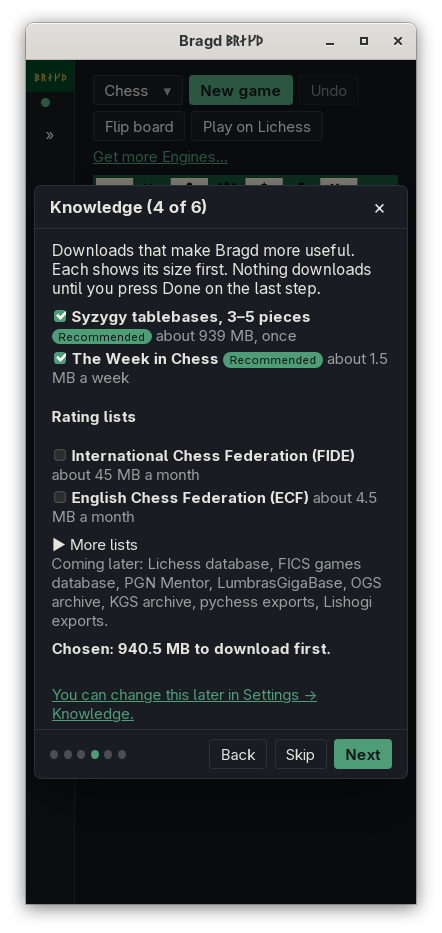
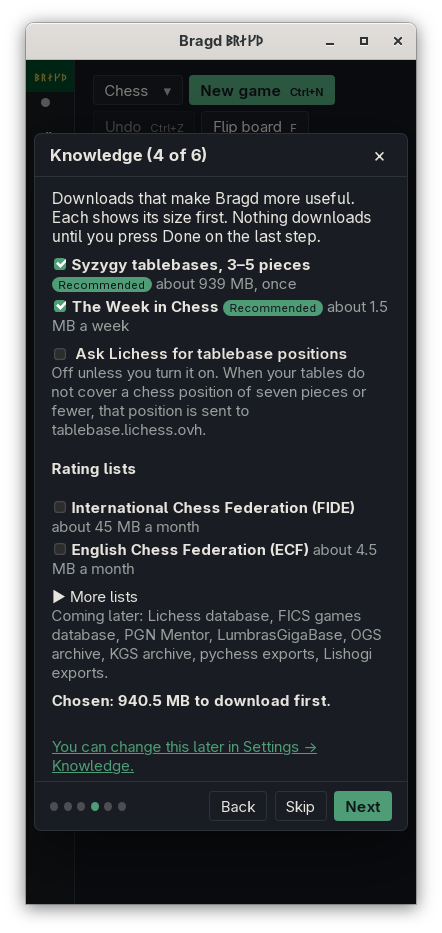
Chess positions go to the Lichess tablebase only once you turn it on.
Closes #306

diff --git a/gui/src/Notices.svelte b/gui/src/Notices.svelte
@@ -6,8 +6,8 @@
   import { t } from "./i18n.svelte.js";
   import { guide } from "./guide.svelte.js";
 
-  /** @type {{ snap: any, go: (page: any) => void }} */
-  let { snap, go } = $props();
+  /** @type {{ snap: any, go: (page: any) => void, save: (name: string, value: any) => Promise<any> }} */
+  let { snap, go, save } = $props();
   let copied = $state("");
 
   const areaName = (/** @type {string} */ id) => snap.areas.find((/** @type {any} */ a) => a[0] === id)?.[1] ?? id;
@@ -18,6 +18,11 @@
     // Closing a hint brings the next one due.
     const next = await api.noticeDismiss(id);
     if (next && !guide.notices.some((n) => n.id === next.id)) guide.notices = [...guide.notices, next];
+  }
+  /** An offer's switch turned on: the offer is done with. */
+  async function turnOn(/** @type {any} */ n) {
+    await save(n.turn_on, true);
+    guide.notices = guide.notices.filter((x) => x.id !== n.id);
   }
   function settings(/** @type {any} */ n) {
     go({ kind: "settings", area: n.settings });
@@ -59,12 +64,13 @@
     {/if}
     {#if shown}
       {@const n = shown}
-      <div class="notice panel" class:hintish={n.id.startsWith("hint:")}>
+      <div class="notice panel" class:hintish={n.id.startsWith("hint:") || n.turn_on}>
         <p>{n.text}</p>
         {#if n.copy}
           <p class="copy"><code>{n.copy}</code> <button onclick={() => copy(n)}>{copied === n.id ? t("common.copied") : t("common.copy")}</button></p>
         {/if}
         <div class="actions">
+          {#if n.turn_on}<button class="primary" onclick={() => turnOn(n)}>{t("notice.turn_on")}</button>{/if}
           {#if n.settings}<button class="link" onclick={() => settings(n)}>{t("notice.open_settings", { area: areaName(n.settings) })}</button>{/if}
           <button onclick={() => dismiss(n.id)} aria-label={t("common.close")} title={t("common.close")}>×</button>
         </div>

diff --git a/gui/src/App.svelte b/gui/src/App.svelte
@@ -67,8 +67,22 @@
     api.guideDue().then((d) => ([guide.wizard, guide.first, guide.cards] = [d.wizard, d.wizard, d.cards]));
     api.noticeList(true).then((n) => {
       guide.notices = n;
-      api.updateCheck().then((all) => (guide.notices = [...all, ...guide.notices.filter((x) => /^(hint|local):/.test(x.id))]));
+      started = true;
+      api.updateCheck().then((all) => (guide.notices = [...all, ...guide.notices.filter((x) => x.turn_on || /^(hint|local):/.test(x.id))]));
       askTip();
+    });
+  });
+
+  // Entering a Family's place may bring its offer (Rust decides: chess offers the Lichess
+  // tablebase while it is off). Not in the run that showed the wizard, which offered it already.
+  let started = $state(false);
+  let entered = "";
+  $effect(() => {
+    const f = page.kind === "item" ? page.family : "";
+    if (!f || f === entered || !started || guide.first || guide.wizard || guide.cards.length) return;
+    entered = f;
+    api.familyHint(f).then((n) => {
+      if (n && !guide.notices.some((/** @type {any} */ x) => x.id === n.id)) guide.notices = [...guide.notices, n];
     });
   });
 
@@ -195,7 +209,7 @@
   {#if guide.wizard || guide.cards.length}
     <Wizard {snap} {save} only={(id) => api.familiesOnly(id).then(apply)} {go} />
   {/if}
-  <Notices {snap} {go} />
+  <Notices {snap} {go} {save} />
 {/if}
 
 <style>

diff --git a/gui/src/api.js b/gui/src/api.js
@@ -54,6 +54,8 @@ export const whatsNew = () => invoke("whats_new");
 export const noticeList = (/** @type {boolean} */ start) => invoke("notice_list", { start });
 /** Closes a notice; for a hint, the next hint due comes back. @returns {Promise<any>} */
 export const noticeDismiss = (/** @type {string} */ id) => invoke("notice_dismiss", { id });
+/** The offer shown on entering a Family's place, if one is due. @returns {Promise<any>} */
+export const familyHint = (/** @type {string} */ family) => invoke("family_hint", { family });
 /** @returns {Promise<any[]>} */
 export const updateCheck = () => invoke("update_check");
 export const openConfig = () => invoke("open_config");

diff --git a/gui/src/Wizard.svelte b/gui/src/Wizard.svelte
@@ -197,6 +197,10 @@
         <ul class="offers">
           {#each data.offers.filter((/** @type {any} */ o) => !o.list) as o (o.id)}{@render offer(o)}{/each}
         </ul>
+        {#if opt("tablebases_online")?.listed}
+          <label class="check"><input type="checkbox" checked={opt("tablebases_online").value} onchange={(e) => save("tablebases_online", e.currentTarget.checked)} /> {opt("tablebases_online").label}</label>
+          <p class="dim">{opt("tablebases_online").hint}</p>
+        {/if}
         {#if data.offers.some((/** @type {any} */ o) => o.list)}
           <h4>{t("clubs.lists")}</h4>
           <ul class="offers">

diff --git a/gui/src/Tablebases.svelte b/gui/src/Tablebases.svelte
@@ -38,7 +38,7 @@
     }
     await load();
   }
-  const online = $derived(snap.settings.find((/** @type {any} */ o) => o.name === "tablebases_online")?.value ?? true);
+  const online = $derived(snap.settings.find((/** @type {any} */ o) => o.name === "tablebases_online")?.value ?? false);
 </script>
 
 <section class="tablebases">

diff --git a/crates/bragd-core/src/notices.rs b/crates/bragd-core/src/notices.rs
@@ -17,6 +17,8 @@ pub struct Notice {
     pub settings: Option<&'static str>,
     /// A line to copy and run (an upgrade command): shown with a Copy button.
     pub copy: Option<String>,
+    /// The switch it offers to turn on (`settings::Opt::name`): shown with a Turn on button.
+    pub turn_on: Option<&'static str>,
 }
 
 impl Notice {
@@ -26,6 +28,7 @@ impl Notice {
             text,
             settings,
             copy: None,
+            turn_on: None,
         }
     }
 }
@@ -104,6 +107,19 @@ pub fn hint_due(st: &mut AppState, id: &str) -> bool {
     true
 }
 
+/// The hint shown on entering chess that offers the Lichess tablebase lookups: only while chess
+/// is shown and the lookups are off, a few times, and never again once dismissed.
+pub fn tablebase_hint(cfg: &Config, st: &mut AppState) -> Option<Notice> {
+    const ID: &str = "tablebase_online";
+    if !cfg.family_shown("chess") || cfg.tablebases.online || st.notices_dismissed.iter().any(|d| d == ID) || !hint_due(st, ID) {
+        return None;
+    }
+    Some(Notice {
+        turn_on: Some("tablebases_online"),
+        ..Notice::new(ID, t!("hint.tablebase_online"), Some("online"))
+    })
+}
+
 /// The next hint of `hints` (in order, after `after` when given) still to be shown, counted as
 /// shown once more: one hint at a time, the next only once the one before is closed.
 pub fn next_hint<'a>(st: &mut AppState, hints: &[&'a str], after: Option<&str>) -> Option<&'a str> {
@@ -147,6 +163,27 @@ mod tests {
         let shown = (0..5).filter(|_| hint_due(&mut st, "sidebar")).count();
         assert_eq!(shown, TIMES as usize);
         assert!(hint_due(&mut st, "other"));
+    }
+
+    #[test]
+    fn notices_offer_the_tablebase_lookups_to_chess_users_a_few_times() {
+        let mut st = AppState::default();
+        let cfg = Config::default();
+        let shown = (0..5).filter(|_| tablebase_hint(&cfg, &mut st).is_some()).count();
+        assert_eq!(shown, TIMES as usize);
+
+        let mut st = AppState::default();
+        let n = tablebase_hint(&cfg, &mut st).unwrap();
+        assert_eq!((n.turn_on, n.settings), (Some("tablebases_online"), Some("online")));
+        dismiss(&mut st, &n.id);
+        assert!(tablebase_hint(&cfg, &mut st).is_none(), "dismissed: never again");
+
+        let mut st = AppState::default();
+        let on = Config::parse("[tablebases]\nonline = true\n").unwrap();
+        assert!(tablebase_hint(&on, &mut st).is_none(), "already on");
+        let go = Config::parse("[families.family]\nchess = false\n").unwrap();
+        assert!(tablebase_hint(&go, &mut st).is_none(), "no chess");
+        assert!(st.hints_shown.is_empty(), "not counted when not shown");
     }
 
     #[test]

diff --git a/crates/bragd-core/src/config.rs b/crates/bragd-core/src/config.rs
@@ -115,22 +115,14 @@ impl Default for EnginesConfig {
     }
 }
 
-#[derive(Clone, Debug, PartialEq, Serialize, Deserialize)]
+#[derive(Clone, Debug, Default, PartialEq, Serialize, Deserialize)]
 #[serde(default)]
 pub struct TablebasesConfig {
     /// The Syzygy folder; empty: the one in Bragd's data folder.
     pub path: String,
-    /// Ask the Lichess tablebase API for a position the local tables do not cover.
+    /// Ask the Lichess tablebase API for a position the local tables do not cover. Off until the
+    /// user turns it on: nothing leaves the machine unasked (`notices::tablebase_hint` offers it).
     pub online: bool,
-}
-
-impl Default for TablebasesConfig {
-    fn default() -> Self {
-        TablebasesConfig {
-            path: String::new(),
-            online: true,
-        }
-    }
 }
 
 #[derive(Clone, Debug, PartialEq, Serialize, Deserialize)]
@@ -606,13 +598,14 @@ mod tests {
     }
 
     #[test]
-    fn config_defaults_have_everything_on() {
+    fn config_defaults_have_everything_on_but_what_goes_online_unasked() {
         let c = Config::parse("").unwrap();
         assert_eq!(c, Config::default());
         assert_eq!(c.look.theme, "racing-green-dark");
         assert_eq!(c.look.board_theme, "racing");
         assert_eq!(c.knowledge.source_priority, ["twic", "lichess-db"]);
-        assert!(c.updates.check && c.tablebases.online && !c.helper.start_with_session);
+        assert!(c.updates.check && !c.tablebases.online && !c.helper.start_with_session);
+        assert!(Config::parse("[tablebases]\nonline = true\n").unwrap().tablebases.online, "a stored choice stays");
         for v in &bragd_games::VARIANTS {
             assert!(c.variant_on(v.key), "{}", v.key);
         }

diff --git a/gui/src-tauri/src/help.rs b/gui/src-tauri/src/help.rs
@@ -45,7 +45,21 @@ fn hints(cfg: &Config) -> Vec<&'static str> {
 fn hint(cfg: &Config, st: &mut AppState, after: Option<&str>) -> Option<Notice> {
     let h = notices::next_hint(st, &hints(cfg), after)?;
     let _ = st.save();
-    Some(Notice { id: format!("hint:{h}"), text: t!(&format!("hint.{h}")), settings: None, copy: None })
+    Some(Notice { id: format!("hint:{h}"), text: t!(&format!("hint.{h}")), settings: None, copy: None, turn_on: None })
+}
+
+/// Entering a Family's place: chess offers the Lichess tablebase lookups while they are off, at
+/// most once a run and a few runs in all (`notices::tablebase_hint`).
+#[tauri::command]
+pub fn family_hint(family: String, ctx: tauri::State<'_, Ctx>) -> Option<Notice> {
+    static ASKED: std::sync::atomic::AtomicBool = std::sync::atomic::AtomicBool::new(false);
+    if family != "chess" || ASKED.swap(true, std::sync::atomic::Ordering::Relaxed) {
+        return None;
+    }
+    let mut st = AppState::load();
+    let n = notices::tablebase_hint(&ctx.cfg(), &mut st)?;
+    let _ = st.save();
+    Some(n)
 }
 
 /// A notice was closed: a notice is not shown again; a hint only this time, and the next hint

diff --git a/docs/screenshots/cap.py b/docs/screenshots/cap.py
@@ -124,7 +124,7 @@ MODS = {"Alt": 1, "Ctrl": 2, "Meta": 4, "Shift": 8}
 
 # What a demo home has seen: the install wizard, every tour card, and the hints; and a Tip shown
 # in 2100, so no Tip covers a picture.
-SEEN = {"guide_seen": True, "seen_version": "999.0.0", "hints_shown": {h: 99 for h in ("sidebar", "features", "wizard")},
+SEEN = {"guide_seen": True, "seen_version": "999.0.0", "hints_shown": {h: 99 for h in ("sidebar", "features", "wizard", "tablebase_online")},
         "tip_shown": 4102444800}
 
 

diff --git a/gui/src-tauri/src/main.rs b/gui/src-tauri/src/main.rs
@@ -458,6 +458,7 @@ fn main() {
             help::key_used,
             help::notice_list,
             help::notice_dismiss,
+            help::family_hint,
             help::update_check,
             help::open_config,
             help::suggest_translation,

diff --git a/docs/getting-started/first-start.md b/docs/getting-started/first-start.md
@@ -15,13 +15,13 @@ On the first start Bragd opens the install wizard: six short steps in a frame ov
 | 1 Welcome | Language (each by its own name), Theme and Board theme, with a preview | Look |
 | 2 Your games | *Which games do you play?* One click on *Only Chess* (or any other Family) keeps that one and turns the rest off. *Several…* shows a switch for every Family and Variant | Game families |
 | 3 Engines | Nothing: it shows the Engines found on this machine for each Family that is on, or that Bragd's own Bot plays it | Engines |
-| 4 Knowledge | Downloads: TWIC every week and Syzygy 3–5 pieces (about 1 GB) are ticked; the others are listed with their sizes. Of the rating lists, FIDE's and your own federation's are listed; the other federations' wait under **More lists**. One line names the Sources coming later | Knowledge |
+| 4 Knowledge | Downloads: TWIC every week and Syzygy 3–5 pieces (about 1 GB) are ticked; the others are listed with their sizes. Of the rating lists, FIDE's and your own federation's are listed; the other federations' wait under **More lists**. One line names the Sources coming later. While chess is on, *Ask Lichess for tablebase positions* is offered too, off until you tick it | Knowledge |
 | 5 Online | **Sign in to Lichess**, **Sign in to Lishogi** and **Sign in to OGS**, each while its Family (chess, shogi, go) is on ([Playing online](../online/playing-online.md)). It links pychess.org, which Bragd cannot play on, when one of its Families is on | Online, when it has a setting for your Families |
 | 6 Helper | *Start with my session* | Knowledge |
 
 Choices in steps 1, 2 and 6 are saved at once, as in Settings. Nothing is downloaded until you press **Done** on the last step, which lists what will happen. Then Bragd turns the chosen Sources on in the Helper, starting the Helper if none runs, and starts the Syzygy download. **Skip** on step 4 unticks every download. Each download shows its size for one fetch and how often it comes, as on the Sources page: *about 45 MB a month*. When the chosen games have nothing to download yet, step 4 says so instead of a total. The wizard adds up the sizes and warns when the downloads would leave less than 5 GB free on the disk that holds Bragd's data. A single Source of 10 GB or more carries its own warning.
 
-![The Knowledge step: TWIC and Syzygy 3–5 ticked and marked Recommended, FIDE's rating list unticked, More lists folded, the line naming the Sources coming later, and the total under the list](../screenshots/wizard-knowledge-1100.png)
+![The Knowledge step: TWIC and Syzygy 3–5 ticked and marked Recommended, Ask Lichess for tablebase positions unticked with where positions go, FIDE's rating list unticked, More lists folded, the line naming the Sources coming later, and the total under the list](../screenshots/wizard-knowledge-1100.png)
 *Step 4, Knowledge: each download with its size, and the total.*
 
 ![The Helper step: the Start with my session switch, and the list of what Done will do](../screenshots/wizard-helper-1100.png)

diff --git a/docs/reference/privacy.md b/docs/reference/privacy.md
@@ -25,7 +25,7 @@ Bragd sends nothing unless you ask, with one exception: the update check, which 
 | Rating lists | Once a month, for each rating list you turned on (in the wizard or under Sources), or *Fetch now* | Requests for the list's file | `ratings.fide.com`, `turnering.skak.dk`, `rating.englishchess.org.uk` | Leave the list off. Every list starts off ([Rating lists](rating-lists.md)) |
 | Tablebase sizes | When you press **Show size** | A request for one small list of file sizes | `tablebase.lichess.ovh` | Do not press it |
 | Tablebase downloads | When you press **Download**, or **Done** in the wizard with Syzygy ticked | Requests for the files | `tablebase.lichess.ovh` | Untick Syzygy in the wizard; do not press Download ([Tablebases](../engines/tablebases.md)) |
-| Tablebase lookups | In Analyse, for a chess position of seven pieces or fewer that your tables do not cover | The position, as a FEN | the Lichess tablebase API, `tablebase.lichess.ovh` | *Ask Lichess for tablebase positions* off (`tablebases.online`) |
+| Tablebase lookups | Only after you turn on *Ask Lichess for tablebase positions*: in Analyse, for a chess position of seven pieces or fewer that your tables do not cover | The position, as a FEN | the Lichess tablebase API, `tablebase.lichess.ovh` | Leave *Ask Lichess for tablebase positions* off (`tablebases.online`). It starts off. The wizard's Knowledge step and a hint on entering chess offer it ([Tablebases](../engines/tablebases.md#when-is-the-lichess-fallback-offered)) |
 | Engine images | When you press **Get it** on an Engine's card | A pull of the pinned image | `ghcr.io` | Do not press it, or turn off `engines.containers`. No image is published yet ([Engine container images](../engines/container-images.md)) |
 | Pikafish's evaluation network | When you press **Agree and download** under its licence on the Engines page | A request for Pikafish's release archive | `github.com`, Pikafish's release | Do not press it. An installed Pikafish needs none ([Engine container images](../engines/container-images.md#why-does-the-pikafish-image-need-a-download-of-its-own)) |
 | Language model | When you press **Translate** on a comment, or **List models** in *Settings → Language model* | The comment's text, or a request for the model list, with your key when you saved one | The address you set. Ollama, Lemonade and LM Studio found on this machine keep everything on it. An address off this machine is used only after you agree to it once | Leave the language model off. It starts off ([Language model](../knowledge/language-model.md)) |
